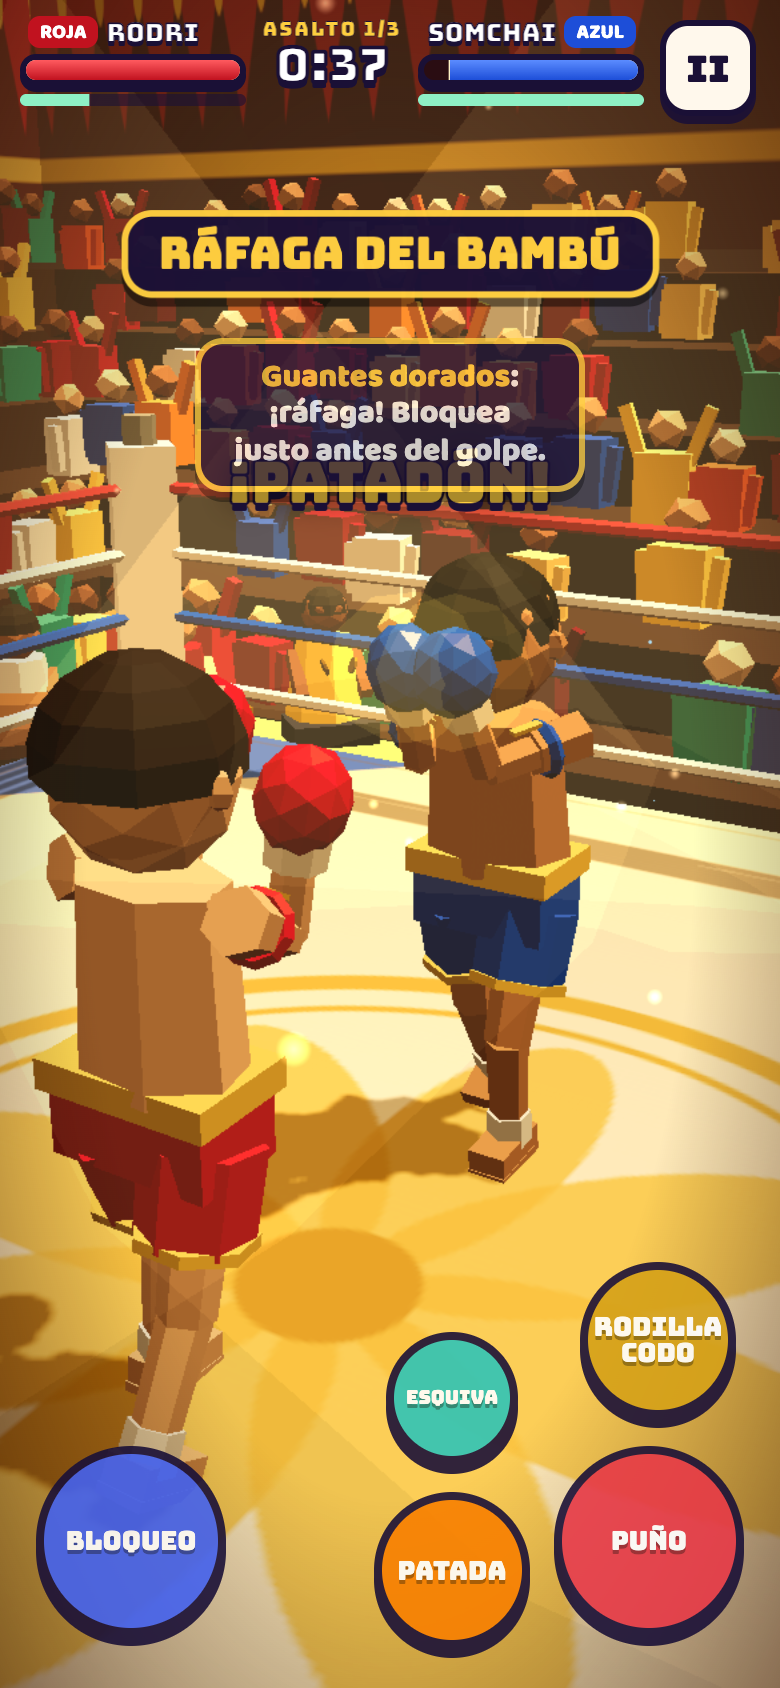
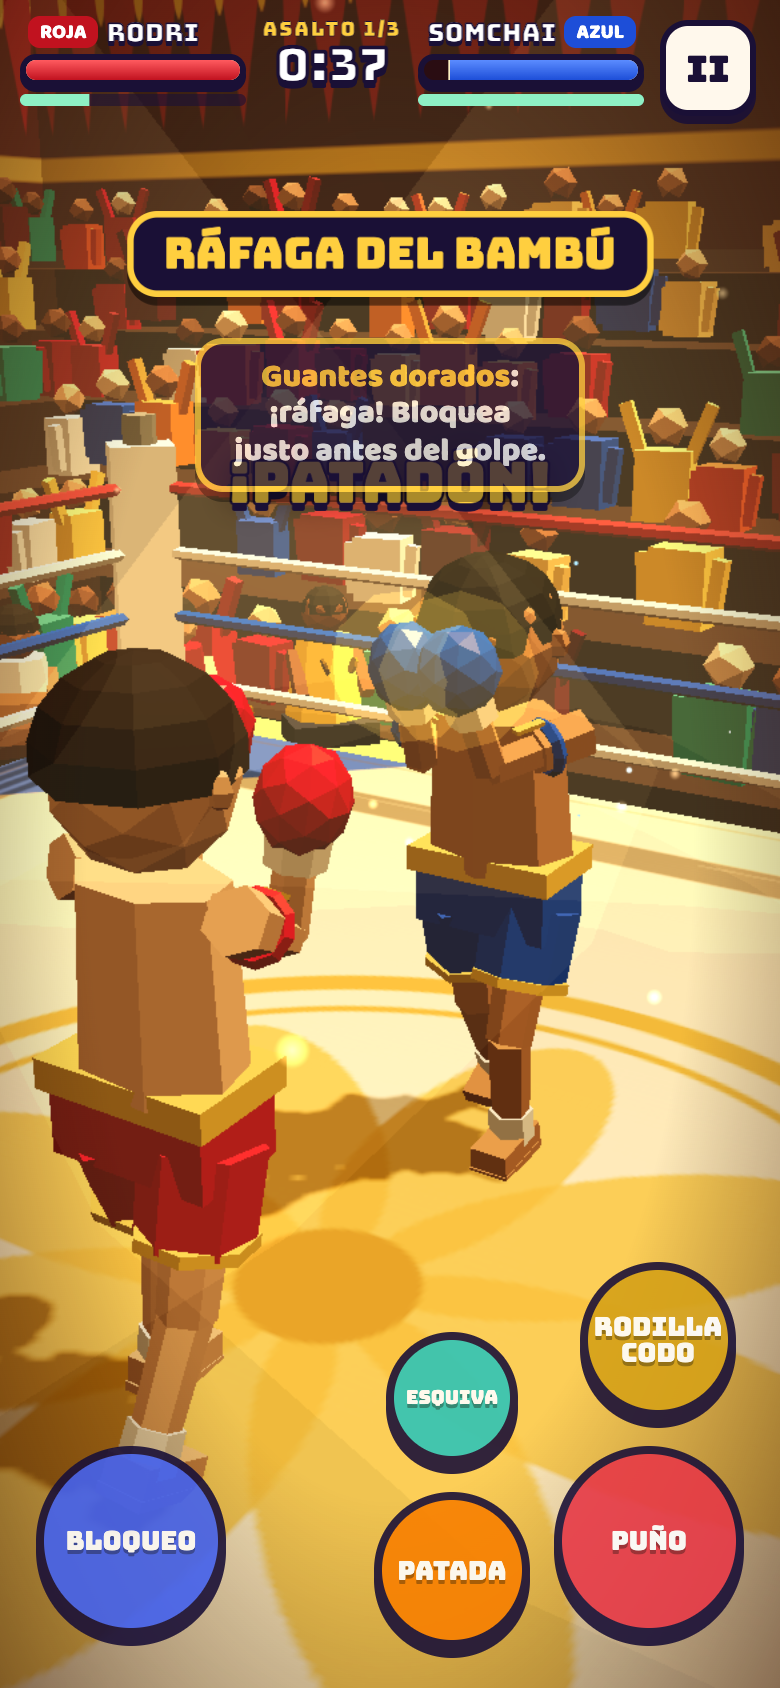
Muay Thai ronda 3: cartel del ataque opaco y retirado a tiempo, ánimo al perder, cámaras del duelo

diff --git a/src/stages/muaythai/interfaz.js b/src/stages/muaythai/interfaz.js
@@ -45,7 +45,7 @@ const CSS = `
 .mt-region:not(.mitad) .mt-ayuda.lado { max-width: 40%; font-size: 14px; padding: 5px 10px; }
 .mt-pop.grande { font-size: clamp(46px, 5vw + 26px, 104px); -webkit-text-stroke: 4px #1a1036; }
 .mt-pop.mt-aviso { font-size: clamp(20px, 1.4vw + 14px, 34px); color: #ffcf3f; background: #1a1036; border: 3px solid #ffcf3f; border-radius: 14px; padding: 4px 14px; -webkit-text-stroke: 0; text-shadow: none; box-shadow: 0 4px 0 rgba(0,0,0,.5); animation: mtaviso 1.6s ease-out forwards; }
-@keyframes mtaviso { 0% { transform: translate(-50%,-50%) scale(.5); opacity: 0; } 12% { transform: translate(-50%,-50%) scale(1.12); opacity: 1; } 22% { transform: translate(-50%,-50%) scale(1); } 85% { opacity: 1; } 100% { opacity: 0; transform: translate(-50%,-50%) scale(1); } }
+@keyframes mtaviso { 0% { transform: translate(-50%,-50%) scale(.6); } 4% { transform: translate(-50%,-50%) scale(1.1); } 8%, 100% { transform: translate(-50%,-50%) scale(1); } }
 .mt-pop.rot { animation-name: mtpoprot; }
 @keyframes mtpop { 0% { transform: translate(-50%,-50%) scale(.3); opacity: 0; } 18% { transform: translate(-50%,-50%) scale(1.2); opacity: 1; } 30% { transform: translate(-50%,-50%) scale(1); } 75% { opacity: 1; } 100% { transform: translate(-50%,-110%) scale(1); opacity: 0; } }
 @keyframes mtpoprot { 0% { transform: translate(-50%,-50%) rotate(180deg) scale(.3); opacity: 0; } 18% { transform: translate(-50%,-50%) rotate(180deg) scale(1.2); opacity: 1; } 30% { transform: translate(-50%,-50%) rotate(180deg) scale(1); } 75% { opacity: 1; } 100% { transform: translate(-50%,10%) rotate(180deg) scale(1); opacity: 0; } }
@@ -257,6 +257,7 @@ export function crearCapa(hudEl) {
     },
     // texto flotante: en la región del jugador p (o en todas si p es null)
     pop(text, { p = null, color = '', size = '', y = 0.36, x = 0.5, ms = 0 } = {}) {
+      const out = [];
       for (const r of api.regions) {
         if (p !== null && r.pl >= 0 && r.pl !== p) continue;
         let xx = x;
@@ -267,9 +268,10 @@ export function crearCapa(hudEl) {
         if (color) e.style.color = color;
         e.style.left = (xx * 100) + '%'; e.style.top = (y * 100) + '%';
         if (ms) e.style.animationDuration = ms + 'ms';
-        r.el.appendChild(e);
+        r.el.appendChild(e); out.push(e);
         setTimeout(() => e.remove(), (ms || (size === 'mt-aviso' ? 1600 : 1000)) + 50);
       }
+      return out;
     },
     ayuda(html, ms = 2600, { p = null, y = 0.62 } = {}) {
       for (const r of api.regions) {

diff --git a/src/stages/muaythai/index.js b/src/stages/muaythai/index.js
@@ -196,9 +196,9 @@ export default {
       }
       // por encima del hombro: el propio luchador a la izquierda, el rival en el centro
       return {
-        pos: V(f.x - f.dir * (portraitCam ? 2.3 : 2.3), RING_Y + (portraitCam ? 2.6 : 2.3), side * (portraitCam ? 2.05 : 1.45)),
-        look: V(o.x + f.dir * 0.1, RING_Y + (portraitCam ? 0.85 : 0.95), side * (portraitCam ? -0.45 : -0.2)),
-        fov: portraitCam ? 56 : 50,
+        pos: V(f.x - f.dir * (st.split ? 2.7 : 2.3), RING_Y + (st.split ? 1.9 : portraitCam ? 2.6 : 2.3), side * (st.split ? 1.7 : portraitCam ? 2.05 : 1.45)),
+        look: V(o.x + f.dir * 0.1, RING_Y + (st.split ? 1.25 : portraitCam ? 0.85 : 0.95), side * (portraitCam ? -0.45 : -0.2)),
+        fov: st.split ? 60 : portraitCam ? 56 : 50,
       };
     }
     function updateCam(rig, i, dt) {
@@ -277,7 +277,7 @@ export default {
         ai.onTell = (pat, first, dur) => {
           sonido.tell(pat.id === 'elefante' ? 'kick' : 'x');
           const por = innerHeight > innerWidth;
-          capa.pop(pat.name.toUpperCase(), { size: 'mt-aviso', y: por ? 0.15 : 0.22, ms: Math.round(dur * 1000 + 250) });
+          st.avisoEls = capa.pop(pat.name.toUpperCase(), { size: 'mt-aviso', y: por ? 0.15 : 0.22, ms: Math.round(dur * 1000 + 2000) });
           if (first) capa.ayuda(pat.hint, 3000, { y: por ? 0.2 : 0.3 });
         };
       }
@@ -502,7 +502,7 @@ export default {
           ['Vida', `${Math.round(f0.hp)}`],
         ],
         moreStats: { golpes: f0.stats.landed },
-        lines: [somchaiDice(win, st.waiPrec[0], f0.stats)],
+        lines: [somchaiDice(win, st.waiPrec[0], f0.stats), ...(!win && f0.stats.landed === 0 ? [`${names[1]}: «Tranqui, que ${st.waiPrec[0] >= 0.5 ? 'el wai te ha quedado precioso' : 'en el avión nadie lo ha visto'}. La próxima, ¡a por él!»`] : [])],
         shareText: win ? (ko ? `KO a Somchai en el asalto ${ko.round} en Bangkok` : `gané a Somchai a los puntos en Bangkok`) : `${score} puntos contra Somchai en Bangkok`,
       });
     }
@@ -591,6 +591,8 @@ export default {
           for (const f of fighters) if (f) idleAnim(f, fdt);
         }
         for (const f of fighters) if (f) placeFighter(f);
+        // el cartel del ataque se retira en cuanto el aviso acaba y llega el golpe
+        if (st.avisoEls && fighters[1] && !fighters[1].tell) { st.avisoEls.forEach((e) => e.remove()); st.avisoEls = null; }
         // destellos
         for (let i = 0; i < fighters.length; i++) {
           const f = fighters[i]; if (!f) continue;
